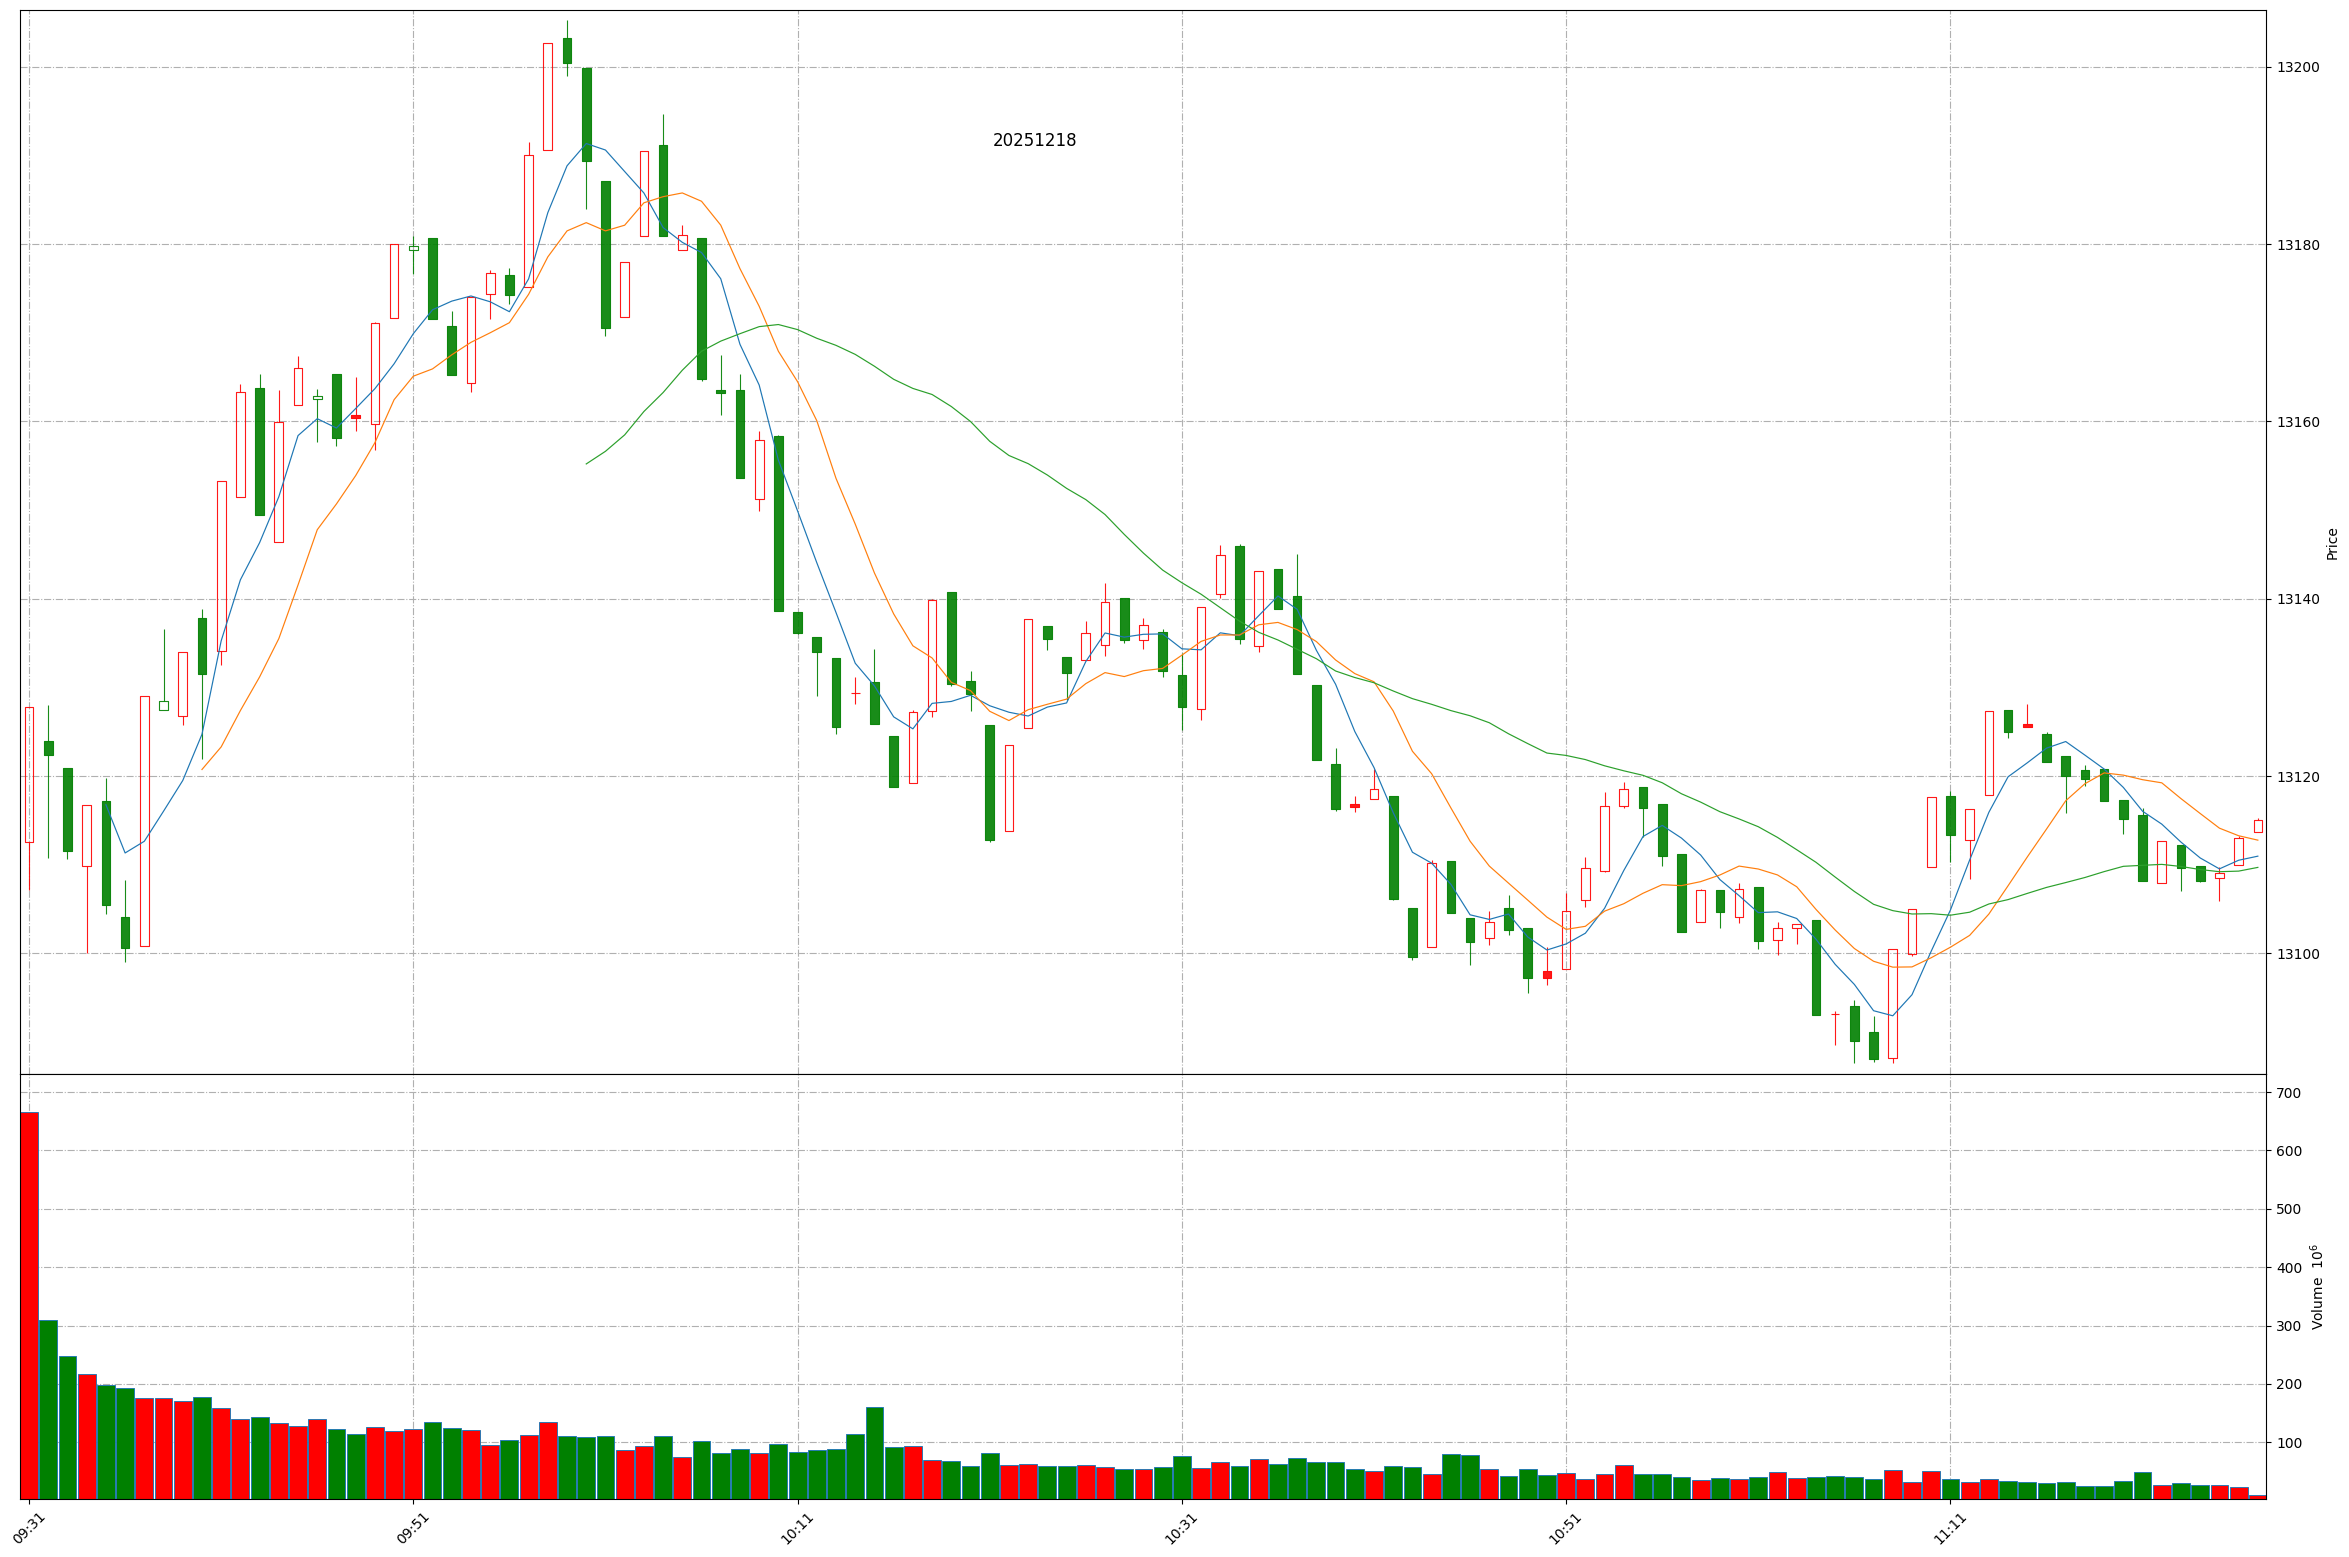
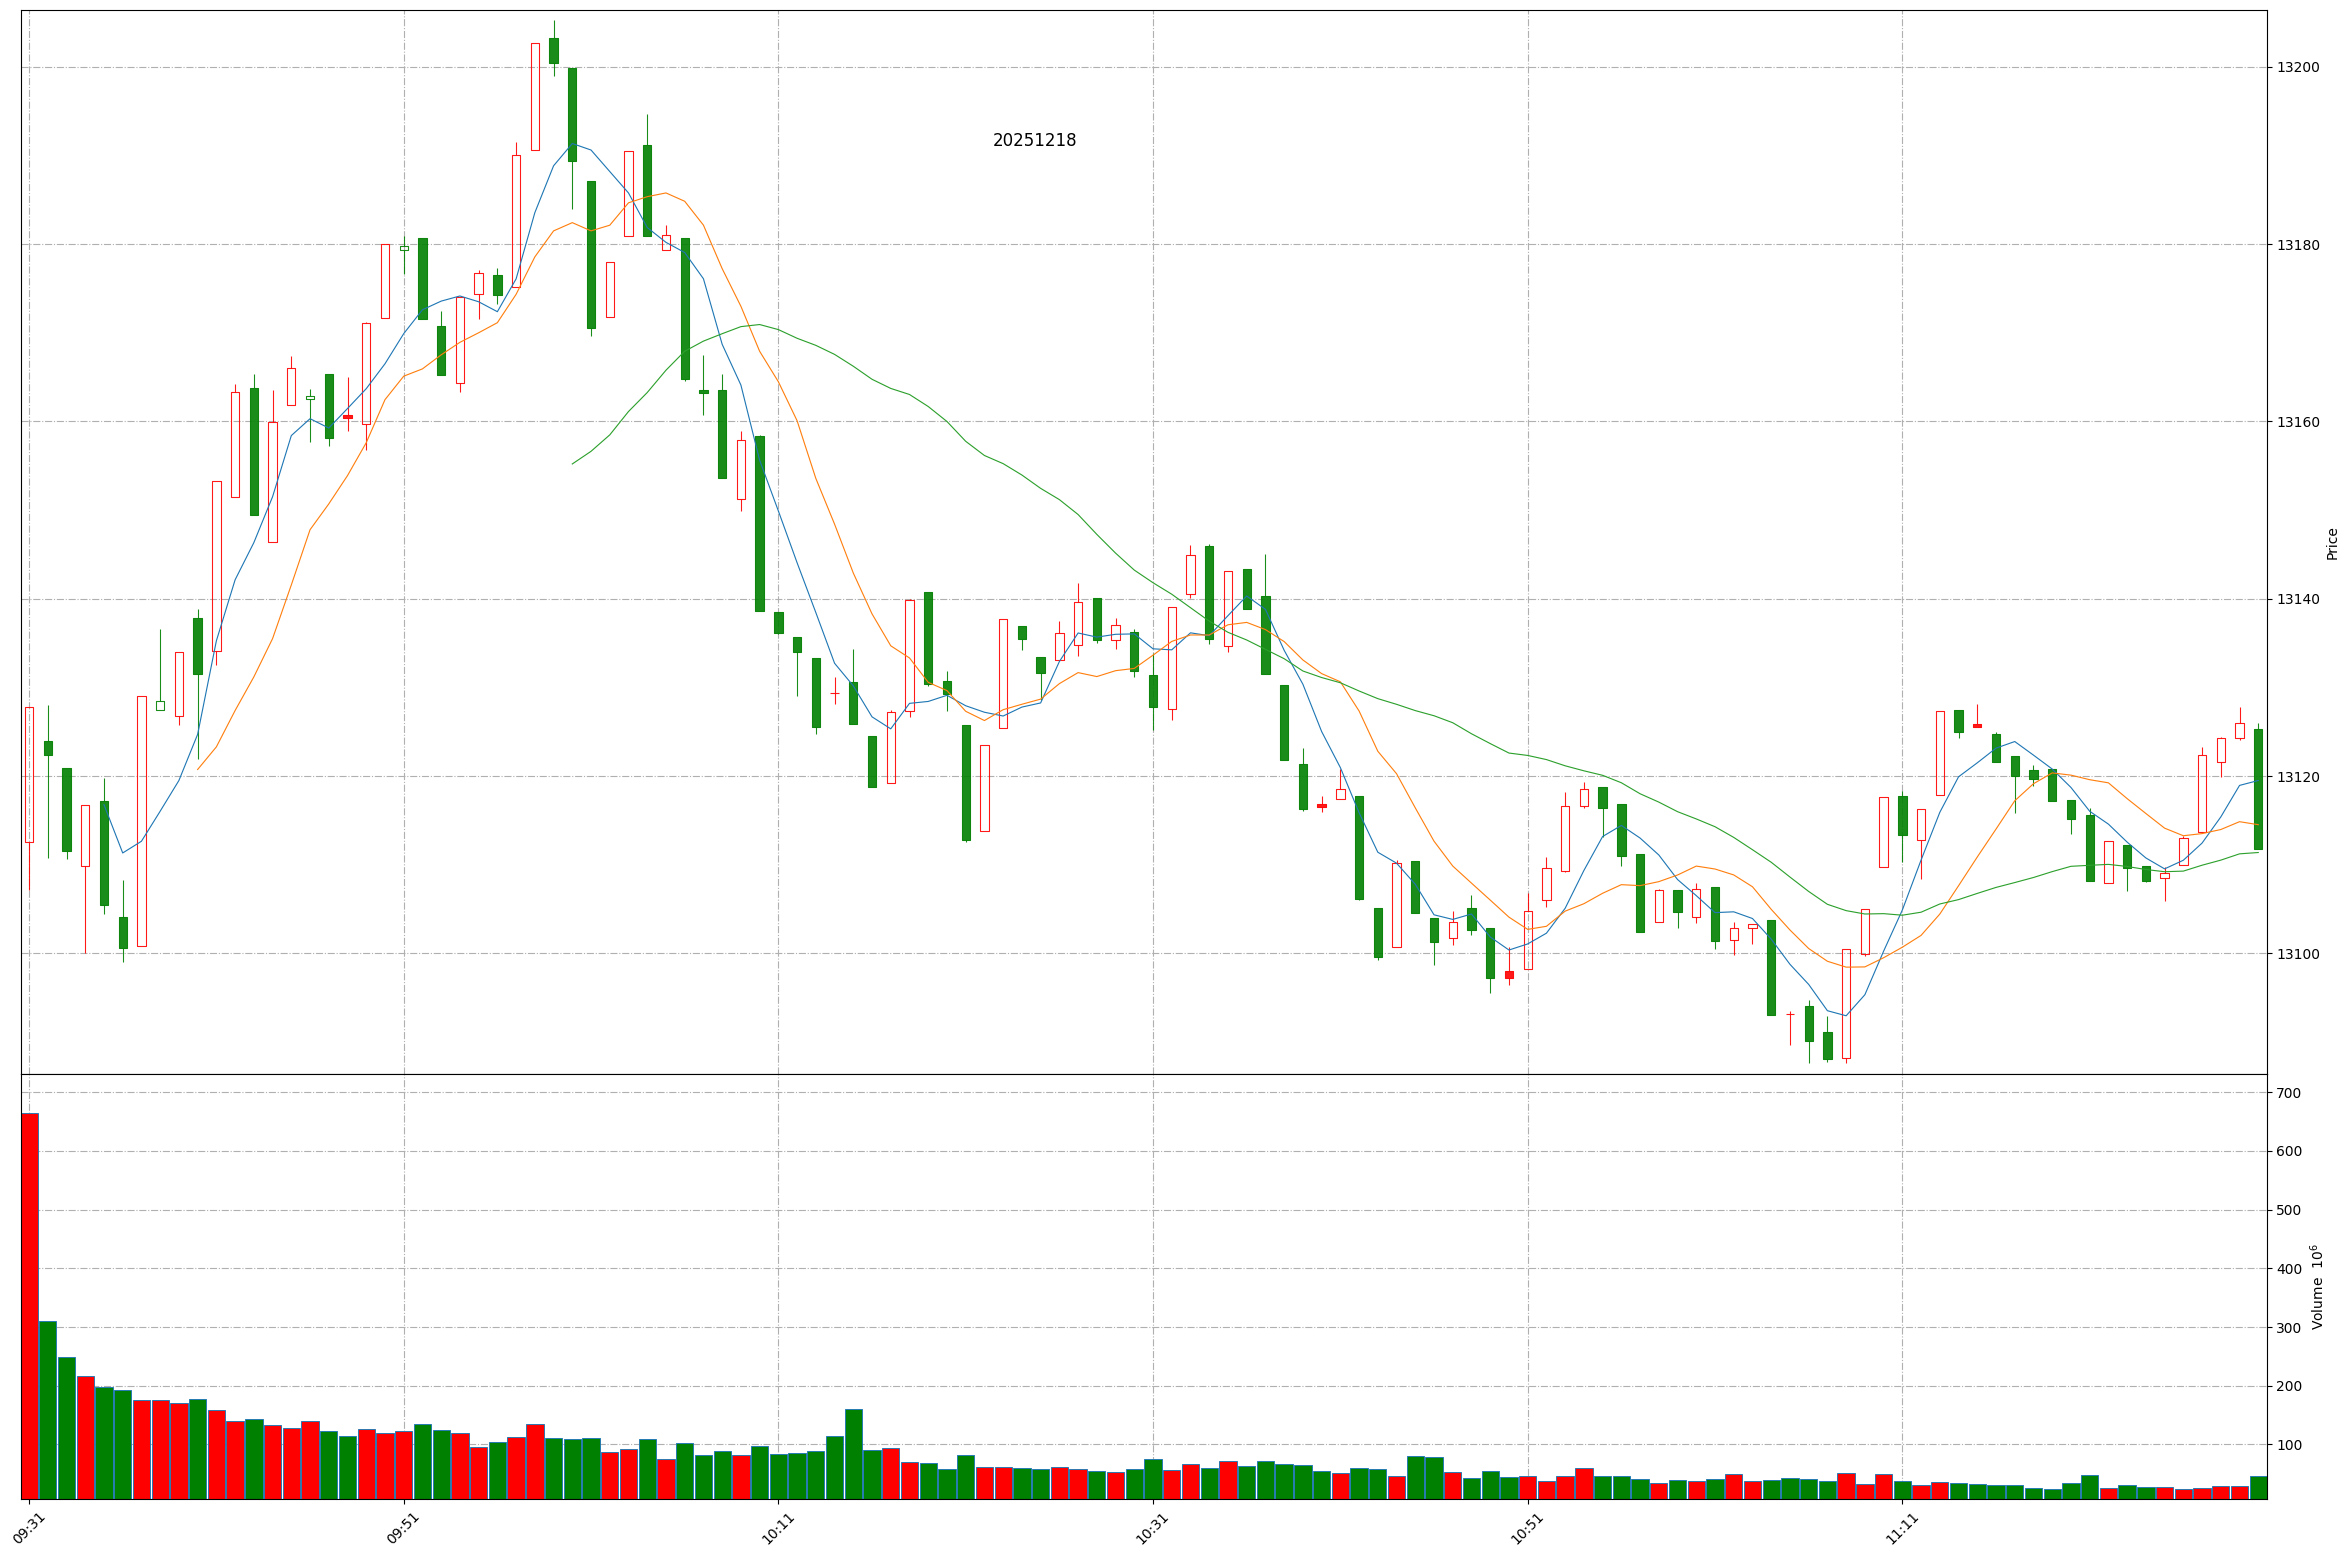
Github action update at 2025-12-18 11:37:15.

diff --git a/README.md b/README.md
@@ -1,11 +1,11 @@
 
 # Daily-A-share-market-quotes 每日 A 股指数（5min 更新）- 20251218
 
-### 上证指数 20251218 11:26
+### 上证指数 20251218 11:37
 ![](./fig/2025/12/20251218-sh000001.png)
 
-### 深证成指 20251218 11:26
+### 深证成指 20251218 11:37
 ![](./fig/2025/12/20251218-sz399001.png)
 
-### 北证50 20251218 11:26
+### 北证50 20251218 11:37
 ![](./fig/2025/12/20251218-bj899050.png)
